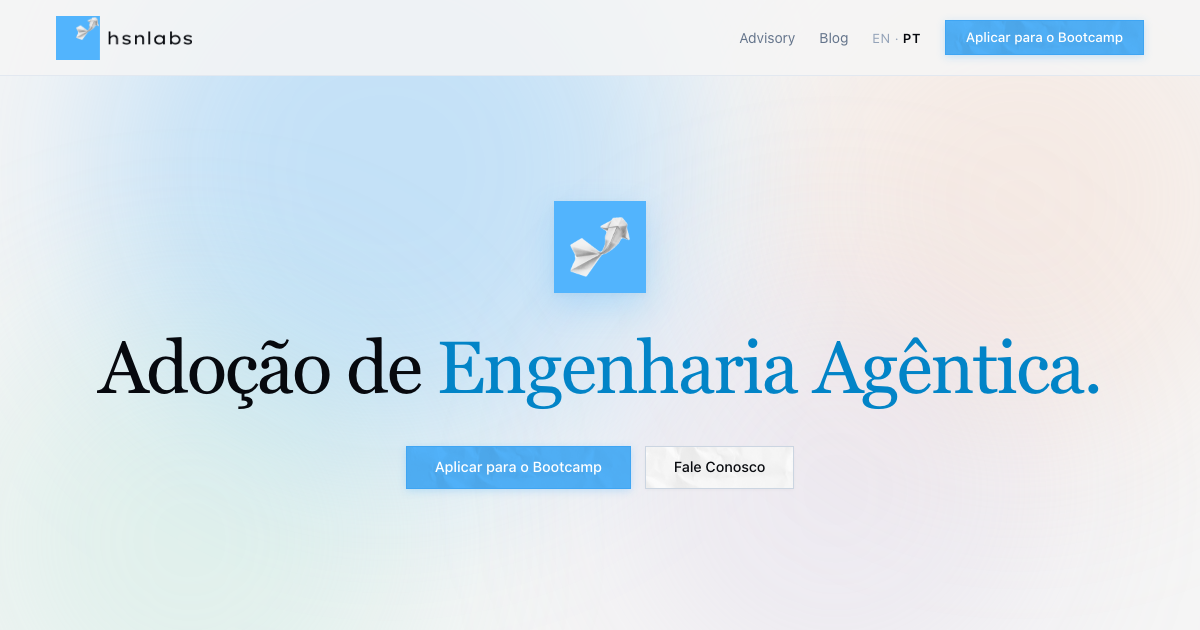
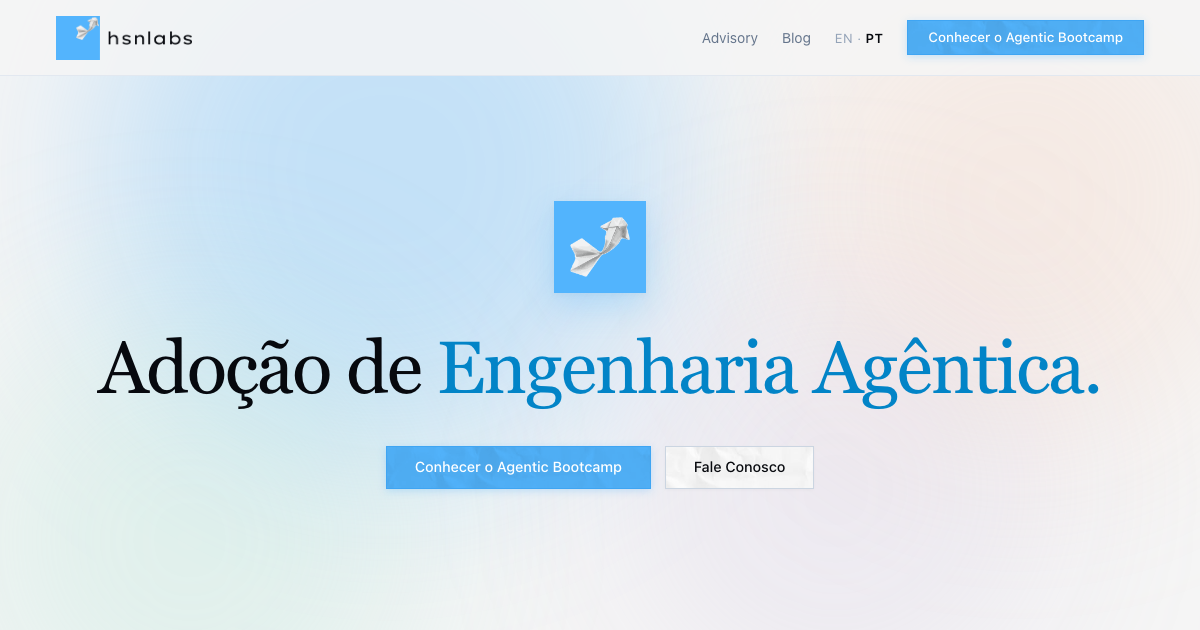
feat(i18n,copy): sync blog header/footer links with PT root / and EN /en/ and standardize Agentic Bootcamp CTAs

Changed region(s): [[0.5858, 0.0302, 0.8633, 0.0905], [0.3083, 0.6937, 0.6783, 0.7841]]

diff --git a/overrides/modules/content.html b/overrides/modules/content.html
@@ -75,19 +75,6 @@
 
             <div class="founder-cred-group">
                 {% if page.file and page.file.src_uri.startswith('pt/') %}
-                <a href="https://hsnlabs.ai/pt/langchain/" class="founder-cred-item" title="LangChain Certified Engineer">
-                    <img src="https://hsnlabs.ai/assets/brand/langchain/lc-lockup-black.svg" alt="LangChain" class="founder-cred-logo">
-                    <span class="founder-cred-sub">Certified <span class="founder-cred-arrow">↗</span></span>
-                </a>
-                <a href="https://hsnlabs.ai/pt/snowflake/" class="founder-cred-item" title="Snowflake AI Data Cloud Partner">
-                    <img src="https://hsnlabs.ai/assets/brand/snowflake/snowflake-lockup-blue.svg" alt="Snowflake" class="founder-cred-logo">
-                    <span class="founder-cred-sub">Partner <span class="founder-cred-arrow">↗</span></span>
-                </a>
-                <a href="https://hsnlabs.ai/pt/braintrust/" class="founder-cred-item" title="Braintrust AI Observability &amp; Evals Partner">
-                    <img src="https://hsnlabs.ai/assets/brand/braintrust/braintrust-lockup-blue.svg" alt="Braintrust" class="founder-cred-logo">
-                    <span class="founder-cred-sub">Partner <span class="founder-cred-arrow">↗</span></span>
-                </a>
-                {% else %}
                 <a href="https://hsnlabs.ai/langchain/" class="founder-cred-item" title="LangChain Certified Engineer">
                     <img src="https://hsnlabs.ai/assets/brand/langchain/lc-lockup-black.svg" alt="LangChain" class="founder-cred-logo">
                     <span class="founder-cred-sub">Certified <span class="founder-cred-arrow">↗</span></span>
@@ -100,15 +87,28 @@
                     <img src="https://hsnlabs.ai/assets/brand/braintrust/braintrust-lockup-blue.svg" alt="Braintrust" class="founder-cred-logo">
                     <span class="founder-cred-sub">Partner <span class="founder-cred-arrow">↗</span></span>
                 </a>
+                {% else %}
+                <a href="https://hsnlabs.ai/en/langchain/" class="founder-cred-item" title="LangChain Certified Engineer">
+                    <img src="https://hsnlabs.ai/assets/brand/langchain/lc-lockup-black.svg" alt="LangChain" class="founder-cred-logo">
+                    <span class="founder-cred-sub">Certified <span class="founder-cred-arrow">↗</span></span>
+                </a>
+                <a href="https://hsnlabs.ai/en/snowflake/" class="founder-cred-item" title="Snowflake AI Data Cloud Partner">
+                    <img src="https://hsnlabs.ai/assets/brand/snowflake/snowflake-lockup-blue.svg" alt="Snowflake" class="founder-cred-logo">
+                    <span class="founder-cred-sub">Partner <span class="founder-cred-arrow">↗</span></span>
+                </a>
+                <a href="https://hsnlabs.ai/en/braintrust/" class="founder-cred-item" title="Braintrust AI Observability &amp; Evals Partner">
+                    <img src="https://hsnlabs.ai/assets/brand/braintrust/braintrust-lockup-blue.svg" alt="Braintrust" class="founder-cred-logo">
+                    <span class="founder-cred-sub">Partner <span class="founder-cred-arrow">↗</span></span>
+                </a>
                 {% endif %}
             </div>
 
             {% if page.file and page.file.src_uri.startswith('pt/') %}
-            <a href="https://hsnlabs.ai/pt/#contact" class="founder-callout-btn" style="white-space: nowrap; flex-shrink: 0;">
+            <a href="https://hsnlabs.ai/#contact" class="founder-callout-btn" style="white-space: nowrap; flex-shrink: 0;">
                 Iniciar Conversa
             </a>
             {% else %}
-            <a href="https://hsnlabs.ai/#contact" class="founder-callout-btn" style="white-space: nowrap; flex-shrink: 0;">
+            <a href="https://hsnlabs.ai/en/#contact" class="founder-callout-btn" style="white-space: nowrap; flex-shrink: 0;">
                 Start a Conversation
             </a>
             {% endif %}
@@ -123,8 +123,8 @@
                 </svg>
                 Voltar para Todos os Posts
             </a>
-            <a href="https://hsnlabs.ai/pt/bootcamp" class="btn btn-primary article-nav-cta-btn">
-                Aplicar para o Bootcamp →
+            <a href="https://hsnlabs.ai/bootcamp/" class="btn btn-primary article-nav-cta-btn">
+                Conhecer o Agentic Bootcamp →
             </a>
             {% else %}
             <a href="{{ ''|url }}" class="btn btn-outline article-nav-return-btn">
@@ -134,8 +134,8 @@
                 </svg>
                 Back to All Posts
             </a>
-            <a href="https://hsnlabs.ai/bootcamp" class="btn btn-primary article-nav-cta-btn">
-                Apply for Bootcamp →
+            <a href="https://hsnlabs.ai/en/bootcamp/" class="btn btn-primary article-nav-cta-btn">
+                Explore Agentic Bootcamp →
             </a>
             {% endif %}
         </div>

diff --git a/overrides/modules/header.html b/overrides/modules/header.html
@@ -2,7 +2,7 @@
 <div class="blog-header-inner">
   <div class="blog-header-brand-group">
     {% if page and page.file and page.file.src_uri.startswith('pt/') %}
-    <a href="https://hsnlabs.ai/pt/" class="blog-brand-link" title="hsnlabs">
+    <a href="https://hsnlabs.ai/" class="blog-brand-link" title="hsnlabs">
       <img src="{{ 'assets/brand/lockups/hsnlabs-lockup-horizontal-light.png'|url }}" alt="hsnlabs" class="blog-brand-logo">
     </a>
     <span class="blog-brand-sep" aria-hidden="true">/</span>
@@ -10,7 +10,7 @@
       <span class="blog-badge-text">Blog</span>
     </a>
     {% else %}
-    <a href="https://hsnlabs.ai" class="blog-brand-link" title="hsnlabs Main Site">
+    <a href="https://hsnlabs.ai/en/" class="blog-brand-link" title="hsnlabs Main Site">
       <img src="{{ 'assets/brand/lockups/hsnlabs-lockup-horizontal-light.png'|url }}" alt="hsnlabs" class="blog-brand-logo">
     </a>
     <span class="blog-brand-sep" aria-hidden="true">/</span>
@@ -23,12 +23,12 @@
   <nav class="blog-header-menu" aria-label="Main Navigation">
     {% if page and page.file and page.file.src_uri.startswith('pt/') %}
     <a href="{{ 'pt/'|url }}" class="blog-nav-link {% if page.file.src_uri == 'pt/index.md' %}active{% endif %}">Posts</a>
-    <a href="https://hsnlabs.ai/pt/bootcamp" class="blog-nav-link">Bootcamp</a>
-    <a href="https://hsnlabs.ai/pt/advisory" class="blog-nav-link">Advisory</a>
+    <a href="https://hsnlabs.ai/bootcamp/" class="blog-nav-link">Agentic Bootcamp</a>
+    <a href="https://hsnlabs.ai/advisory/" class="blog-nav-link">Advisory</a>
     {% else %}
     <a href="{{ ''|url }}" class="blog-nav-link {% if page and page.is_homepage %}active{% endif %}">All Posts</a>
-    <a href="https://hsnlabs.ai/bootcamp" class="blog-nav-link">Bootcamp</a>
-    <a href="https://hsnlabs.ai/advisory" class="blog-nav-link">Advisory</a>
+    <a href="https://hsnlabs.ai/en/bootcamp/" class="blog-nav-link">Agentic Bootcamp</a>
+    <a href="https://hsnlabs.ai/en/advisory/" class="blog-nav-link">Advisory</a>
     <a href="{{ 'about/resume/'|url }}" class="blog-nav-link {% if page and 'about' in page.url %}active{% endif %}">About Hugo</a>
     {% endif %}
   </nav>
@@ -58,14 +58,14 @@
       <span class="lang-sep">·</span>
       <span class="lang-item active">PT</span>
     </div>
-    <a href="https://hsnlabs.ai/pt/bootcamp" class="btn btn-primary blog-header-cta">Inscrever no Bootcamp</a>
+    <a href="https://hsnlabs.ai/bootcamp/" class="btn btn-primary blog-header-cta">Conhecer o Agentic Bootcamp</a>
     {% else %}
     <div class="lang-switch">
       <span class="lang-item active">EN</span>
       <span class="lang-sep">·</span>
       <a href="{{ 'pt/'|url }}" class="lang-item">PT</a>
     </div>
-    <a href="https://hsnlabs.ai/bootcamp" class="btn btn-primary blog-header-cta">Apply for Bootcamp</a>
+    <a href="https://hsnlabs.ai/en/bootcamp/" class="btn btn-primary blog-header-cta">Explore Agentic Bootcamp</a>
     {% endif %}
   </div>
 </div>

diff --git a/overrides/modules/footer.html b/overrides/modules/footer.html
@@ -8,7 +8,7 @@
       {% if page and page.file and page.file.src_uri.startswith('pt/') %}
       <!-- Brand & Positioning Column (PT) -->
       <div class="footer-seo-col brand-col">
-        <a href="https://hsnlabs.ai/pt/" class="footer-brand-link" title="hsnlabs">
+        <a href="https://hsnlabs.ai/" class="footer-brand-link" title="hsnlabs">
           <img src="{{ 'assets/brand/lockups/hsnlabs-lockup-horizontal-light.png'|url }}" alt="hsnlabs" class="footer-brand-logo">
         </a>
         <p class="footer-brand-tagline">
@@ -49,7 +49,7 @@
           <li><a href="{{ 'pt/post/estudo-caso-latam-airlines/'|url }}">LATAM Airlines: Motor de Margem a 3%</a></li>
           <li><a href="{{ 'pt/post/agentes-ilimitados-maquinas-estados-finitos/'|url }}">Maquinas de Estados vs Loops de API</a></li>
           <li><a href="{{ 'pt/post/sprint-arquitetura-cinco-dias/'|url }}">Sprint de Arquitetura de 5 Dias</a></li>
-          <li><a href="https://hsnlabs.ai/pt/canvas/" target="_blank" rel="noopener">The Agentic Pilot Canvas v1.4 ↗</a></li>
+          <li><a href="https://hsnlabs.ai/canvas/" target="_blank" rel="noopener">The Agentic Pilot Canvas v1.4 ↗</a></li>
         </ul>
       </div>
 
@@ -88,7 +88,7 @@
       {% else %}
       <!-- Brand & Positioning Column (EN) -->
       <div class="footer-seo-col brand-col">
-        <a href="https://hsnlabs.ai" class="footer-brand-link" title="hsnlabs">
+        <a href="https://hsnlabs.ai/en/" class="footer-brand-link" title="hsnlabs">
           <img src="{{ 'assets/brand/lockups/hsnlabs-lockup-horizontal-light.png'|url }}" alt="hsnlabs" class="footer-brand-logo">
         </a>
         <p class="footer-brand-tagline">
@@ -129,7 +129,7 @@
           <li><a href="{{ 'post/latam-airlines-case-study/'|url }}">LATAM Airlines: 3% Margin Engine</a></li>
           <li><a href="{{ 'post/unconstrained-agents-finite-state-machines/'|url }}">State Machines vs API Loops</a></li>
           <li><a href="{{ 'post/five-day-architecture-sprint/'|url }}">Five-Day Architecture Sprint</a></li>
-          <li><a href="https://hsnlabs.ai/canvas/" target="_blank" rel="noopener">The Agentic Pilot Canvas v1.4 ↗</a></li>
+          <li><a href="https://hsnlabs.ai/en/canvas/" target="_blank" rel="noopener">The Agentic Pilot Canvas v1.4 ↗</a></li>
         </ul>
       </div>
 

diff --git a/docs/pt/post/manifesto.md b/docs/pt/post/manifesto.md
@@ -72,10 +72,10 @@ A hsnlabs é a boutique de engenharia que construí para trabalhar em parceria c
 - <a href="/blog/pt/post/estudo-caso-latam-airlines/">LATAM Airlines: Agentes em Produção com Margem de 3 Por Cento</a>
 - <a href="/blog/pt/post/agentes-ilimitados-maquinas-estados-finitos/">Estudo de Caso: 42 Chamadas em Loop às 2 da Manhã</a>
 - <a href="/blog/pt/post/negociacoes-autonomas-cobranca-contratos/">Operações em Alta Velocidade: Negociação Autônoma, Cobrança e Contratos</a>
-- <a href="https://hsnlabs.ai/pt/bootcamp/">Aplicar para o Bootcamp de Agentes Enterprise de 5 Dias da hsnlabs</a>
+- <a href="https://hsnlabs.ai/bootcamp/">Conhecer o Agentic Bootcamp da hsnlabs</a>
 
 ## Recursos Estrategicos e Posts Relacionados
 - <a href="/blog/pt/post/matriz-substituicao-bpo/">A Matriz de Substituicao de BPO: Metricas Operacionais e Financeiras</a>
 - <a href="/blog/pt/post/kafka-metamorfose-ia-futuro-do-trabalho/">De 1915 a Era da IA: Kafka, utilitarismo e o valor do trabalho</a>
 - <a href="/blog/pt/post/colapso-rpa-legado/">O Mercado de RPA Esta em Colapso</a>
-- <a href="https://hsnlabs.ai/pt/bootcamp/">Aplicar para o Bootcamp de Agentes Enterprise de 5 Dias da hsnlabs</a>
+- <a href="https://hsnlabs.ai/bootcamp/">Conhecer o Agentic Bootcamp da hsnlabs</a>

diff --git a/docs/pt/post/kafka-metamorfose-ia-futuro-do-trabalho.md b/docs/pt/post/kafka-metamorfose-ia-futuro-do-trabalho.md
@@ -50,10 +50,10 @@ A tecnologia precisa libertar o trabalhador da condição instrumental descrita 
 - <a href="/blog/pt/post/colapso-rpa-legado/">O Mercado de RPA Está em Colapso</a>
 - <a href="/blog/pt/post/guarda-do-balanco-extincao-bpo/">O Que Aprendi Construindo HR Tech Sobre a Morte do BPO</a>
 - <a href="/blog/pt/post/morte-suporte-nivel-1-erp/">A Morte do Suporte Nível 1: Por Que Consultorias de ERP Perdem Horas Faturáveis</a>
-- <a href="https://hsnlabs.ai/pt/bootcamp/">Aplicar para o Bootcamp de Agentes Enterprise de 5 Dias da hsnlabs</a>
+- <a href="https://hsnlabs.ai/bootcamp/">Conhecer o Agentic Bootcamp da hsnlabs</a>
 
 ## Recursos Estrategicos e Posts Relacionados
 - <a href="/blog/pt/post/matriz-substituicao-bpo/">A Matriz de Substituicao de BPO: Metricas Operacionais e Financeiras</a>
 - <a href="/blog/pt/post/colapso-rpa-legado/">O Mercado de RPA Esta em Colapso</a>
 - <a href="/blog/pt/post/guarda-do-balanco-extincao-bpo/">O Que Aprendi Construindo HR Tech Sobre a Morte do BPO</a>
-- <a href="https://hsnlabs.ai/pt/bootcamp/">Aplicar para o Bootcamp de Agentes Enterprise de 5 Dias da hsnlabs</a>
+- <a href="https://hsnlabs.ai/bootcamp/">Conhecer o Agentic Bootcamp da hsnlabs</a>

diff --git a/AGENTS.md b/AGENTS.md
@@ -28,7 +28,7 @@ When working in this repository, you must adhere to the following rules:
 - **Build Tool:** Use `uv run mkdocs build` or `mkdocs serve`. Do not write raw HTML/CSS unless absolutely necessary. Rely on MkDocs Material native features.
 
 ## 5. Header Architecture & Mobile Invariants
-- **Actions Order:** `Search` > `RSS` > `Github logo hsnlabs` > `EN · PT` (editorial interpunct `.lang-switch`) > `Apply for Bootcamp` (or `Inscrever no Bootcamp` in PT).
+- **Actions Order:** `Search` > `RSS` > `Github logo hsnlabs` > `EN · PT` (editorial interpunct `.lang-switch`) > `Explore Agentic Bootcamp` (or `Inscrever no Bootcamp` in PT).
 - **Navigation Menu:** Contains only editorial items (`All Posts`, `Bootcamp`, `Advisory`, `About Hugo`). No standalone language links in the nav menu.
 - **Mobile Responsive Invariants (<= 640px):**
   - Navigation menu (`.blog-header-menu`) is hidden (`display: none !important;`).

diff --git a/docs/pt/post/falacia-llm-como-juiz.md b/docs/pt/post/falacia-llm-como-juiz.md
@@ -67,4 +67,4 @@ Não avalie agentes de produção com prompts opinativos. Avalie com asserções
 - <a href="/blog/pt/post/o-que-e-uma-ontologia-para-agentes-ia/">O Que E uma Ontologia para Agentes de IA? O Guia Definitivo</a>
 - <a href="/blog/pt/post/ontologia-vs-schema-banco-dados/">Ontologia vs Schema de Banco de Dados: Por Que Tabelas Relacionais Quebram Agentes</a>
 - <a href="/blog/pt/post/palantir-vs-databricks-arquitetura-agentes/">Palantir vs Databricks: Por Que Data Lakes Falham na Orquestracao de Agentes</a>
-- <a href="https://hsnlabs.ai/pt/bootcamp/">Aplicar para o Bootcamp de Agentes Enterprise de 5 Dias da hsnlabs</a>
+- <a href="https://hsnlabs.ai/bootcamp/">Conhecer o Agentic Bootcamp da hsnlabs</a>

diff --git a/docs/pt/post/ontologia-vs-grafo-conhecimento.md b/docs/pt/post/ontologia-vs-grafo-conhecimento.md
@@ -103,4 +103,4 @@ Sem ontologia, um grafo de conhecimento torna-se um emaranhado de dados sem gove
 - <a href="/blog/pt/post/como-construir-ontologia-enterprise-do-zero/">Como Construir uma Ontologia Enterprise do Zero: Passo a Passo</a>
 - <a href="/blog/pt/post/palantir-aip-bootcamp-ontologia-operacional/">A Arquitetura do Palantir AIP: Por Que Agentes Exigem Ontologia Operacional</a>
 - <a href="/blog/pt/post/isolamento-perimetro-mcp-contratos-dados/">Como Protegemos Bancos de Dados Enterprise de Agentes de IA</a>
-- <a href="https://hsnlabs.ai/pt/bootcamp/">Aplicar para o Bootcamp de Agentes Enterprise de 5 Dias da hsnlabs</a>
+- <a href="https://hsnlabs.ai/bootcamp/">Conhecer o Agentic Bootcamp da hsnlabs</a>

diff --git a/docs/pt/post/como-construir-ontologia-operacional-python-mcp.md b/docs/pt/post/como-construir-ontologia-operacional-python-mcp.md
@@ -100,4 +100,4 @@ Ao substituir prompts vagos por contratos fortemente tipados e rotear comandos a
 - <a href="/blog/pt/post/como-construir-ontologia-enterprise-do-zero/">Como Construir uma Ontologia Enterprise do Zero: Passo a Passo</a>
 - <a href="/blog/pt/post/ontologia-vs-grafo-conhecimento/">Ontologia vs Grafo de Conhecimento: Diferencas Chave e Arquitetura</a>
 - <a href="/blog/pt/post/palantir-aip-bootcamp-ontologia-operacional/">A Arquitetura do Palantir AIP: Por Que Agentes Exigem Ontologia Operacional</a>
-- <a href="https://hsnlabs.ai/pt/bootcamp/">Aplicar para o Bootcamp de Agentes Enterprise de 5 Dias da hsnlabs</a>
+- <a href="https://hsnlabs.ai/bootcamp/">Conhecer o Agentic Bootcamp da hsnlabs</a>

diff --git a/docs/pt/post/a-ontologia-operacional.md b/docs/pt/post/a-ontologia-operacional.md
@@ -108,4 +108,4 @@ O resultado é software de inteligência artificial confiável, rápido e pronto
 - <a href="/blog/pt/post/como-construir-ontologia-enterprise-do-zero/">Como Construir uma Ontologia Enterprise do Zero: Passo a Passo</a>
 - <a href="/blog/pt/post/como-construir-ontologia-operacional-python-mcp/">Como Construir uma Ontologia Operacional de Negocios em Python e MCP</a>
 - <a href="/blog/pt/post/ontologia-vs-grafo-conhecimento/">Ontologia vs Grafo de Conhecimento: Diferencas Chave e Arquitetura</a>
-- <a href="https://hsnlabs.ai/pt/bootcamp/">Aplicar para o Bootcamp de Agentes Enterprise de 5 Dias da hsnlabs</a>
+- <a href="https://hsnlabs.ai/bootcamp/">Conhecer o Agentic Bootcamp da hsnlabs</a>

diff --git a/docs/pt/post/agentes-ilimitados-maquinas-estados-finitos.md b/docs/pt/post/agentes-ilimitados-maquinas-estados-finitos.md
@@ -62,4 +62,4 @@ Autonomia não significa ausência de regras. Autonomia corporativa é a capacid
 - <a href="/blog/pt/post/como-construir-ontologia-enterprise-do-zero/">Como Construir uma Ontologia Enterprise do Zero: Passo a Passo</a>
 - <a href="/blog/pt/post/a-ontologia-operacional/">A Ontologia Operacional: Como Empresas Conectam LLMs aos Dados Proprietarios</a>
 - <a href="/blog/pt/post/como-construir-ontologia-operacional-python-mcp/">Como Construir uma Ontologia Operacional de Negocios em Python e MCP</a>
-- <a href="https://hsnlabs.ai/pt/bootcamp/">Aplicar para o Bootcamp de Agentes Enterprise de 5 Dias da hsnlabs</a>
+- <a href="https://hsnlabs.ai/bootcamp/">Conhecer o Agentic Bootcamp da hsnlabs</a>

diff --git a/docs/pt/post/estudo-caso-latam-airlines.md b/docs/pt/post/estudo-caso-latam-airlines.md
@@ -60,4 +60,4 @@ E assim que você substitui TI legada. E assim que você expande margens. E assi
 - <a href="/blog/pt/post/como-construir-ontologia-enterprise-do-zero/">Como Construir uma Ontologia Enterprise do Zero: Passo a Passo</a>
 - <a href="/blog/pt/post/estudo-caso-cleveland-clinic-agentes-operacionais/">Estudo de Caso: Como a Cleveland Clinic Escalou Fluxo de Pacientes</a>
 - <a href="/blog/pt/post/agentes-ilimitados-maquinas-estados-finitos/">Estudo de Caso: 42 Chamadas em Loop as 2 da Manha</a>
-- <a href="https://hsnlabs.ai/pt/bootcamp/">Aplicar para o Bootcamp de Agentes Enterprise de 5 Dias da hsnlabs</a>
+- <a href="https://hsnlabs.ai/bootcamp/">Conhecer o Agentic Bootcamp da hsnlabs</a>
